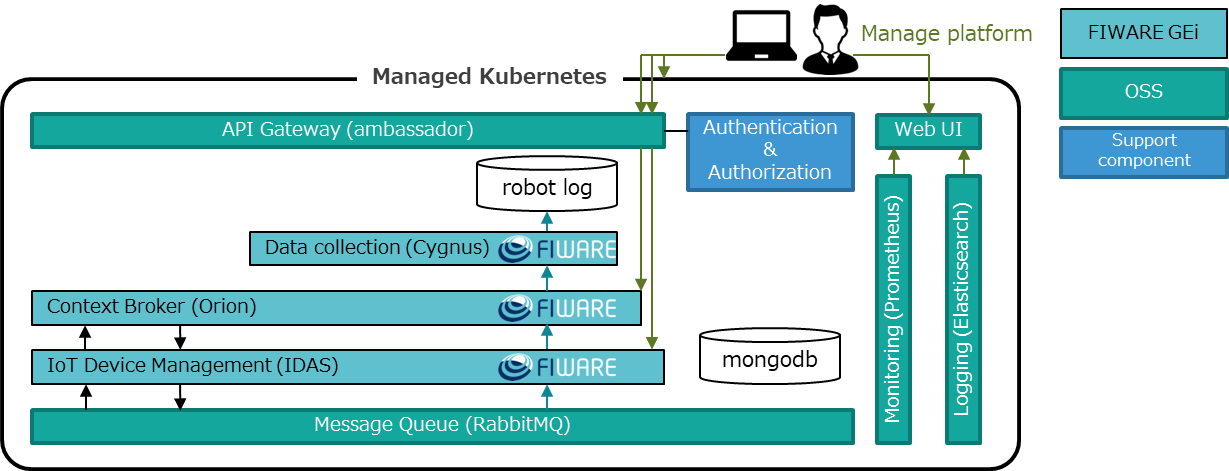
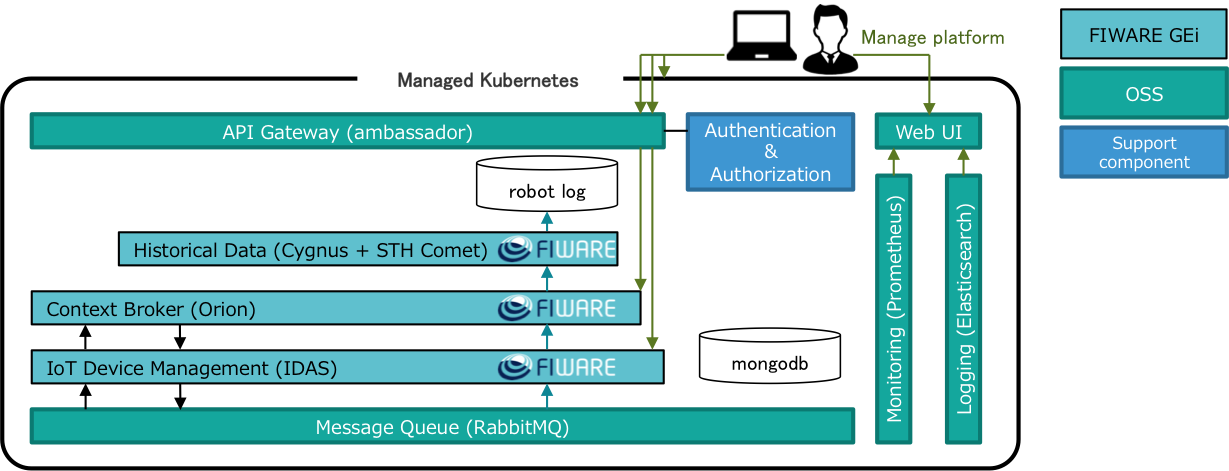
update README

diff --git a/README.md b/README.md
@@ -15,13 +15,14 @@ For example, you can deploy a ROS program to the robot and access the raw data o
 |:--|:--|:--|
 |[FIWARE orion](https://catalogue-server.fiware.org/enablers/publishsubscribe-context-broker-orion-context-broker)|Publish/Subscribe Context Broker|2.2.0|
 |[FIWARE cygnus](https://catalogue-server.fiware.org/enablers/cygnus)|Data collection and Persistence Agent|1.10.0|
+|[FIWARE sth-comet](https://catalogue-server.fiware.org/enablers/sth-comet)|An Agent to manage historical raw and aggregated time series context|2.5.0|
 |[FIWARE iotagent-ul](https://catalogue-server.fiware.org/enablers/backend-device-management-idas)|Backend Device Management Agent|1.8.0|
 
 |Other components|summary|version|
 |:--|:--|:--|
 |[kubernetes](https://kubernetes.io/)|Container Orchestration Platform|1.13 or higher|
 |[ambassador](https://www.getambassador.io/)|API Gateway|0.53.1|
-|[auth](https://github.com/RoboticBase/fiware-ambassador-auth)|Authorization and Authentication component working with ambassador|0.2.0|
+|[auth](https://github.com/RoboticBase/fiware-ambassador-auth)|Authorization and Authentication component working with ambassador|0.3.0|
 |[RabbitMQ](https://www.rabbitmq.com/)|Distributed Message Queue|3.7.14|
 |[MongoDB](https://www.mongodb.com/)|Document-oriented NoSQL Database|4.1.10|
 |[Prometheus](https://prometheus.io/)|Monitoring and Alerting toolkit|2.9.1|
@@ -88,6 +89,7 @@ Please see this repository [ogcaizu/ogc-poc1](https://github.com/ogcaizu/ogc-poc
         * 03 start auth pods for API Gateway on Azure AKS -- [03_start_auth_pods.ipynb](/docs/en-jupyter_notebook/azure_aks/03_start_auth_pods.ipynb).
         * 04 start FIWARE pods on Azure AKS -- [04_start_fiware_pods.ipynb](/docs/en-jupyter_notebook/azure_aks/04_start_fiware_pods.ipynb).
         * 05 start monitoring and logging on Azure AKS -- [05_start_monitoring_and_logging.ipynb](/docs/en-jupyter_notebook/azure_aks/05_start_monitoring_and_logging.ipynb).
+        * 06 backup mongodb data to Azure Blog Storage -- [06_backup_mongodb.ipynb](/docs/en-jupyter_notebook/azure_aks/06_backup_mongodb.ipynb).
     * when using minikube
         * 01 prepare minikube -- [01_prepare_minikube.ipynb](/docs/en-jupyter_notebook/minikube/01_prepare_minikube.ipynb).
         * 02 start base pods on minikube -- [02_start_base_pods.ipynb](/docs/en-jupyter_notebook/minikube/02_start_base_pods.ipynb).
@@ -103,6 +105,7 @@ Please see this repository [ogcaizu/ogc-poc1](https://github.com/ogcaizu/ogc-poc
         * 03 AKS上にAPI Gateway認証用PODを起動 -- [03_start_auth_pods.md](/docs/ja-markdown/azure_aks/03_start_auth_pods.md).
         * 04 AKS上にFIWAREのPODを起動 -- [04_start_fiware_pods.md](/docs/ja-markdown/azure_aks/04_start_fiware_pods.md).
         * 05 モニタリングとロギング -- [05_start_monitoring_and_logging.md](/docs/ja-markdown/azure_aks/05_start_monitoring_and_logging.md).
+        * 06 mongodbのデータをAzure Blog Storageへバックアップ -- [06_backup_mongodb.md](/docs/ja-markdown/azure_aks/06_backup_mongodb.md).
     * minikubeを用いる場合
         * 01 minikubeの準備 -- [01_prepare_minikube.md](/docs/ja-markdown/minikube/01_prepare_minikube.md).
         * 02 minikube上にベースとなるPODを起動 -- [02_start_base_pods.md](/docs/ja-markdown/minikube/02_start_base_pods.md).
@@ -119,7 +122,8 @@ Please see this repository [ogcaizu/ogc-poc1](https://github.com/ogcaizu/ogc-poc
         * Ultralight 2.0 is a lightweight text based protocol aimed to constrained devices and communications where the bandwidth and device memory may be limited resources.
 * [telefonicaid/fiware-cygnus](https://github.com/telefonicaid/fiware-cygnus)
     * Cygnus is a connector in charge of persisting certain sources of data in certain configured third-party storages, creating a historical view of such data.
-        * In this demonstration, historical data are stored to mongodb.
+* [telefonicaid/fiware-sth-comet](https://github.com/telefonicaid/fiware-sth-comet)
+    * A component of the FIWARE ecosystem in charge of managing historical and aggregated time series context information.
 
 ### Support components
 * [RoboticBase/fiware-ambassador-auth](https://github.com/RoboticBase/fiware-ambassador-auth)
